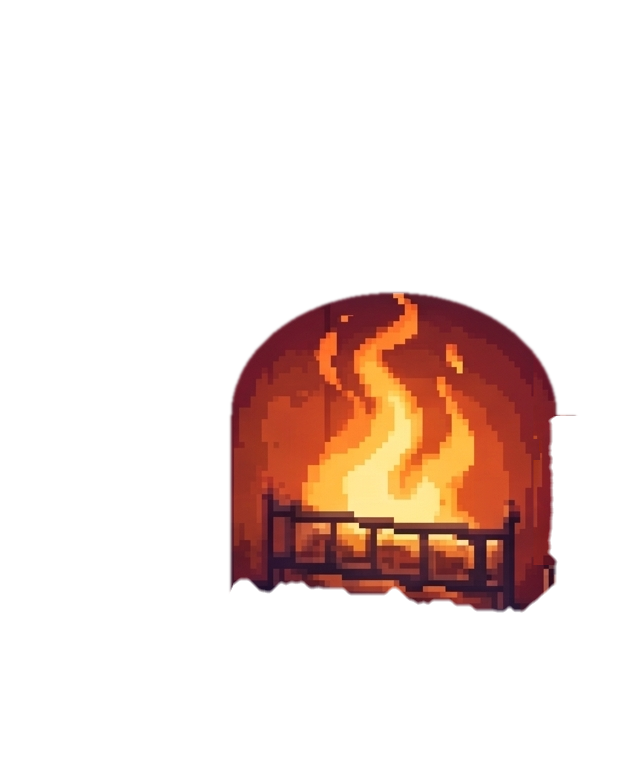
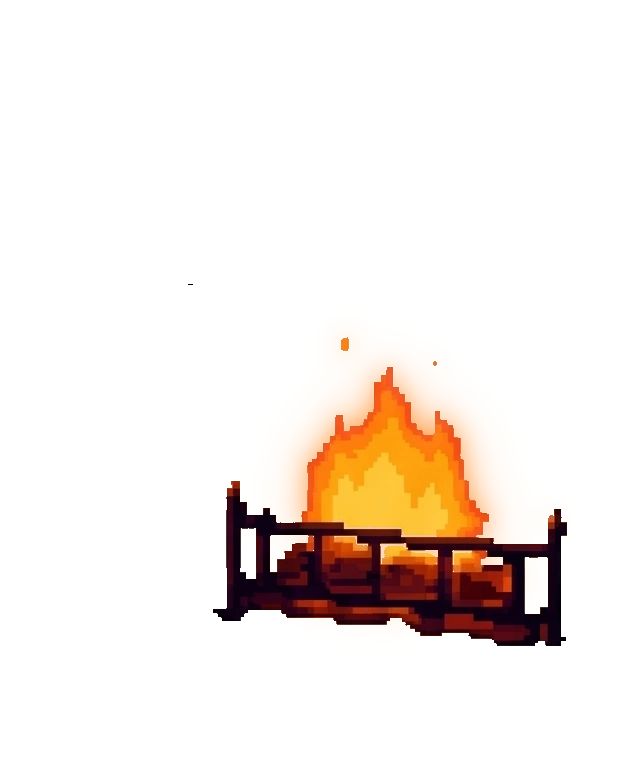
feat(calcifer): integrate clean fireplace background and transparent 24 flame frames with aura

Changed region(s): [[0.3366, 0.374, 0.9179, 0.8416]]

diff --git a/js/calcifer.js b/js/calcifer.js
@@ -13,14 +13,14 @@
 const Calcifer = (() => {
   // 8 frames ngọn lửa bập bùng tự nhiên từ Flame_1_8.png
   const IDLE_FRAMES = [
-    'assets/img/calcifer/flame_idle_1.webp?v=20261020a',
-    'assets/img/calcifer/flame_idle_2.webp?v=20261020a',
-    'assets/img/calcifer/flame_idle_3.webp?v=20261020a',
-    'assets/img/calcifer/flame_idle_4.webp?v=20261020a',
-    'assets/img/calcifer/flame_idle_5.webp?v=20261020a',
-    'assets/img/calcifer/flame_idle_6.webp?v=20261020a',
-    'assets/img/calcifer/flame_idle_7.webp?v=20261020a',
-    'assets/img/calcifer/flame_idle_8.webp?v=20261020a'
+    'assets/img/calcifer/flame_idle_1.webp?v=20261020_v3',
+    'assets/img/calcifer/flame_idle_2.webp?v=20261020_v3',
+    'assets/img/calcifer/flame_idle_3.webp?v=20261020_v3',
+    'assets/img/calcifer/flame_idle_4.webp?v=20261020_v3',
+    'assets/img/calcifer/flame_idle_5.webp?v=20261020_v3',
+    'assets/img/calcifer/flame_idle_6.webp?v=20261020_v3',
+    'assets/img/calcifer/flame_idle_7.webp?v=20261020_v3',
+    'assets/img/calcifer/flame_idle_8.webp?v=20261020_v3'
   ];
 
   // 9 phân đoạn hội thoại với biểu cảm và cử chỉ tương ứng
@@ -28,92 +28,92 @@ const Calcifer = (() => {
     {
       title: 'Xin chào bạn!',
       text: 'Chào bạn,\nMình là **Carte** — người giữ lửa và canh gác cho tòa lâu đài cùng với chú chó siêu to tên **Bond**.\n\nNhờ có mình mà lâu đài mới chuyển động và đi bất kì nơi nào mà cô chủ muốn.',
-      mainFrame: 'assets/img/calcifer/calcifer_talk_3.webp?v=20261020a', // giơ tay chào mừng
+      mainFrame: 'assets/img/calcifer/calcifer_talk_3.webp?v=20261020_v3', // giơ tay chào mừng
       talkFrames: [
-        'assets/img/calcifer/calcifer_talk_3.webp?v=20261020a',
-        'assets/img/calcifer/calcifer_talk_6.webp?v=20261020a'
+        'assets/img/calcifer/calcifer_talk_3.webp?v=20261020_v3',
+        'assets/img/calcifer/calcifer_talk_6.webp?v=20261020_v3'
       ],
-      breatheFrame: 'assets/img/calcifer/calcifer_talk_2.webp?v=20261020a'
+      breatheFrame: 'assets/img/calcifer/calcifer_talk_2.webp?v=20261020_v3'
     },
     {
       title: 'Cô chủ của Carte',
       text: 'Cô chủ của mình là một người thích khám phá, tò mò và cũng mơ mộng nữa.',
-      mainFrame: 'assets/img/calcifer/calcifer_smile_1.webp?v=20261020_opt2', // cười dịu dàng
+      mainFrame: 'assets/img/calcifer/calcifer_smile_1.webp?v=20261020_v3', // cười dịu dàng
       talkFrames: [
-        'assets/img/calcifer/calcifer_smile_1.webp?v=20261020_opt2',
-        'assets/img/calcifer/calcifer_talk_4.webp?v=20261020a'
+        'assets/img/calcifer/calcifer_smile_1.webp?v=20261020_v3',
+        'assets/img/calcifer/calcifer_talk_4.webp?v=20261020_v3'
       ],
-      breatheFrame: 'assets/img/calcifer/calcifer_smile_5.webp?v=20261020a'
+      breatheFrame: 'assets/img/calcifer/calcifer_smile_5.webp?v=20261020_v3'
     },
     {
       title: 'Những cái tên gắn liền từng chặng đường',
       text: 'Mình có được nghe cô chủ kể trước kia cô có khá nhiều tên, mỗi cái tên gắn liền với một giai đoạn...\n\nHiện tại cô chủ mình chọn **Vivi** làm tên tiếng Việt cũng như bút danh cho việc viết, còn **Vivian** là tên tiếng Anh.',
-      mainFrame: 'assets/img/calcifer/calcifer_talk_6.webp?v=20261020a', // mở miệng kể chuyện
+      mainFrame: 'assets/img/calcifer/calcifer_talk_6.webp?v=20261020_v3', // mở miệng kể chuyện
       talkFrames: [
-        'assets/img/calcifer/calcifer_talk_6.webp?v=20261020a',
-        'assets/img/calcifer/calcifer_talk_7.webp?v=20261020a'
+        'assets/img/calcifer/calcifer_talk_6.webp?v=20261020_v3',
+        'assets/img/calcifer/calcifer_talk_7.webp?v=20261020_v3'
       ],
-      breatheFrame: 'assets/img/calcifer/calcifer_talk_5.webp?v=20261020a'
+      breatheFrame: 'assets/img/calcifer/calcifer_talk_5.webp?v=20261020_v3'
     },
     {
       title: 'Đưa cô gần hơn tới các vì sao',
       text: 'Mình hay gọi cô là **Vivi** luôn cho gọn.\n\nVivi rất thích các chòm sao nên mình đã luôn phải cháy rực rỡ để đưa cô gần hơn tới các vì sao ✨ — một góc nhỏ ấm áp nơi cô có thể quan sát, nhìn ngắm, chiêm nghiệm về những điều cô đọc được, cô đi qua hay những sáng tác của cô.',
-      mainFrame: 'assets/img/calcifer/calcifer_smile_6.webp?v=20261020a', // giơ tay nhiệt huyết
+      mainFrame: 'assets/img/calcifer/calcifer_smile_6.webp?v=20261020_v3', // giơ tay nhiệt huyết
       talkFrames: [
-        'assets/img/calcifer/calcifer_smile_6.webp?v=20261020a',
-        'assets/img/calcifer/calcifer_talk_3.webp?v=20261020a'
+        'assets/img/calcifer/calcifer_smile_6.webp?v=20261020_v3',
+        'assets/img/calcifer/calcifer_talk_3.webp?v=20261020_v3'
       ],
-      breatheFrame: 'assets/img/calcifer/calcifer_smile_7.webp?v=20261020a'
+      breatheFrame: 'assets/img/calcifer/calcifer_smile_7.webp?v=20261020_v3'
     },
     {
       title: 'Những khoảng ở giữa...',
       text: 'Vivi vừa hiền lành cũng vừa ghê gớm, vừa sâu sắc vừa vô tri, vừa chăm chỉ cũng vừa lười biếng, vừa thích đi nhưng cũng lười đi... 😊\n\nCô là sự kết hợp của nhiều khoảng ở giữa…',
-      mainFrame: 'assets/img/calcifer/calcifer_smile_2.webp?v=20261020a', // cười tít mắt `> <`
+      mainFrame: 'assets/img/calcifer/calcifer_smile_2.webp?v=20261020_v3', // cười tít mắt `> <`
       talkFrames: [
-        'assets/img/calcifer/calcifer_smile_2.webp?v=20261020a',
-        'assets/img/calcifer/calcifer_smile_5.webp?v=20261020a'
+        'assets/img/calcifer/calcifer_smile_2.webp?v=20261020_v3',
+        'assets/img/calcifer/calcifer_smile_5.webp?v=20261020_v3'
       ],
-      breatheFrame: 'assets/img/calcifer/calcifer_smile_4.webp?v=20261020a'
+      breatheFrame: 'assets/img/calcifer/calcifer_smile_4.webp?v=20261020_v3'
     },
     {
       title: 'Tình yêu dành cho nghệ thuật',
       text: 'Nhưng có lẽ điều mà cô luôn thích đó là **nghệ thuật**.\n\nCô thích khám phá về thế giới, thích ghi lại những chiêm nghiệm về cuộc đời.',
-      mainFrame: 'assets/img/calcifer/calcifer_smile_5.webp?v=20261020a', // nụ cười điềm đạm
+      mainFrame: 'assets/img/calcifer/calcifer_smile_5.webp?v=20261020_v3', // nụ cười điềm đạm
       talkFrames: [
-        'assets/img/calcifer/calcifer_smile_5.webp?v=20261020a',
-        'assets/img/calcifer/calcifer_talk_4.webp?v=20261020a'
+        'assets/img/calcifer/calcifer_smile_5.webp?v=20261020_v3',
+        'assets/img/calcifer/calcifer_talk_4.webp?v=20261020_v3'
       ],
-      breatheFrame: 'assets/img/calcifer/calcifer_smile_1.webp?v=20261020_opt2'
+      breatheFrame: 'assets/img/calcifer/calcifer_smile_1.webp?v=20261020_v3'
     },
     {
       title: 'Phương châm viết của Vivi',
       text: 'Vivi hay nói với mình là cô:\n\n🔥 **« VIẾT ĐỂ KHÔNG QUÊN »** 🔥',
-      mainFrame: 'assets/img/calcifer/calcifer_talk_8.webp?v=20261020a', // cười lớn vui vẻ
+      mainFrame: 'assets/img/calcifer/calcifer_talk_8.webp?v=20261020_v3', // cười lớn vui vẻ
       talkFrames: [
-        'assets/img/calcifer/calcifer_talk_8.webp?v=20261020a',
-        'assets/img/calcifer/calcifer_smile_8.webp?v=20261020a'
+        'assets/img/calcifer/calcifer_talk_8.webp?v=20261020_v3',
+        'assets/img/calcifer/calcifer_smile_8.webp?v=20261020_v3'
       ],
-      breatheFrame: 'assets/img/calcifer/calcifer_talk_3.webp?v=20261020a'
+      breatheFrame: 'assets/img/calcifer/calcifer_talk_3.webp?v=20261020_v3'
     },
     {
       title: 'Những dấu chân con chữ',
       text: 'Vậy nên…\n\nNhiều khi các bài viết hay các sáng tác có thể như là một dấu chân cô đã đi và muốn lưu dấu thông qua vài con chữ lộn xộn.',
-      mainFrame: 'assets/img/calcifer/calcifer_smile_7.webp?v=20261020a', // nụ cười rạng rỡ
+      mainFrame: 'assets/img/calcifer/calcifer_smile_7.webp?v=20261020_v3', // nụ cười rạng rỡ
       talkFrames: [
-        'assets/img/calcifer/calcifer_smile_7.webp?v=20261020a',
-        'assets/img/calcifer/calcifer_talk_5.webp?v=20261020a'
+        'assets/img/calcifer/calcifer_smile_7.webp?v=20261020_v3',
+        'assets/img/calcifer/calcifer_talk_5.webp?v=20261020_v3'
       ],
-      breatheFrame: 'assets/img/calcifer/calcifer_smile_1.webp?v=20261020_opt2'
+      breatheFrame: 'assets/img/calcifer/calcifer_smile_1.webp?v=20261020_v3'
     },
     {
       title: 'Chinh phục những chân trời mới',
       text: 'Chẳng xô bồ hay cũng chẳng cần trau chuốt để ngóng chờ một chàng hoàng tử của đời.\n\nCác con chữ chỉ đơn giản vẫn ở đó và lớn dần từng ngày để tự chinh phục những điều thú vị tiếp theo. ✨',
-      mainFrame: 'assets/img/calcifer/calcifer_smile_3.webp?v=20261020a', // giơ 2 tay hạnh phúc
+      mainFrame: 'assets/img/calcifer/calcifer_smile_3.webp?v=20261020_v3', // giơ 2 tay hạnh phúc
       talkFrames: [
-        'assets/img/calcifer/calcifer_smile_3.webp?v=20261020a',
-        'assets/img/calcifer/calcifer_talk_3.webp?v=20261020a'
+        'assets/img/calcifer/calcifer_smile_3.webp?v=20261020_v3',
+        'assets/img/calcifer/calcifer_talk_3.webp?v=20261020_v3'
       ],
-      breatheFrame: 'assets/img/calcifer/calcifer_smile_6.webp?v=20261020a'
+      breatheFrame: 'assets/img/calcifer/calcifer_smile_6.webp?v=20261020_v3'
     }
   ];
 
@@ -523,22 +523,22 @@ const Calcifer = (() => {
   function preloadImages() {
     const all = [
       ...IDLE_FRAMES,
-      'assets/img/calcifer/calcifer_talk_1.webp?v=20261020a',
-      'assets/img/calcifer/calcifer_talk_2.webp?v=20261020a',
-      'assets/img/calcifer/calcifer_talk_3.webp?v=20261020a',
-      'assets/img/calcifer/calcifer_talk_4.webp?v=20261020a',
-      'assets/img/calcifer/calcifer_talk_5.webp?v=20261020a',
-      'assets/img/calcifer/calcifer_talk_6.webp?v=20261020a',
-      'assets/img/calcifer/calcifer_talk_7.webp?v=20261020a',
-      'assets/img/calcifer/calcifer_talk_8.webp?v=20261020a',
-      'assets/img/calcifer/calcifer_smile_1.webp?v=20261020_opt2',
-      'assets/img/calcifer/calcifer_smile_2.webp?v=20261020a',
-      'assets/img/calcifer/calcifer_smile_3.webp?v=20261020a',
-      'assets/img/calcifer/calcifer_smile_4.webp?v=20261020a',
-      'assets/img/calcifer/calcifer_smile_5.webp?v=20261020a',
-      'assets/img/calcifer/calcifer_smile_6.webp?v=20261020a',
-      'assets/img/calcifer/calcifer_smile_7.webp?v=20261020a',
-      'assets/img/calcifer/calcifer_smile_8.webp?v=20261020a'
+      'assets/img/calcifer/calcifer_talk_1.webp?v=20261020_v3',
+      'assets/img/calcifer/calcifer_talk_2.webp?v=20261020_v3',
+      'assets/img/calcifer/calcifer_talk_3.webp?v=20261020_v3',
+      'assets/img/calcifer/calcifer_talk_4.webp?v=20261020_v3',
+      'assets/img/calcifer/calcifer_talk_5.webp?v=20261020_v3',
+      'assets/img/calcifer/calcifer_talk_6.webp?v=20261020_v3',
+      'assets/img/calcifer/calcifer_talk_7.webp?v=20261020_v3',
+      'assets/img/calcifer/calcifer_talk_8.webp?v=20261020_v3',
+      'assets/img/calcifer/calcifer_smile_1.webp?v=20261020_v3',
+      'assets/img/calcifer/calcifer_smile_2.webp?v=20261020_v3',
+      'assets/img/calcifer/calcifer_smile_3.webp?v=20261020_v3',
+      'assets/img/calcifer/calcifer_smile_4.webp?v=20261020_v3',
+      'assets/img/calcifer/calcifer_smile_5.webp?v=20261020_v3',
+      'assets/img/calcifer/calcifer_smile_6.webp?v=20261020_v3',
+      'assets/img/calcifer/calcifer_smile_7.webp?v=20261020_v3',
+      'assets/img/calcifer/calcifer_smile_8.webp?v=20261020_v3'
     ];
     all.forEach(src => {
       const img = new Image();
@@ -761,20 +761,20 @@ const Calcifer = (() => {
     // Chuỗi thức tỉnh sống động:
     // 1. Nhắm mắt ngủ
     if (flameEl) {
-      flameEl.src = 'assets/img/calcifer/calcifer_talk_1.webp?v=20261020a';
+      flameEl.src = 'assets/img/calcifer/calcifer_talk_1.webp?v=20261020_v3';
     }
 
     // 2. Mở to mắt giật mình 'O'
     setTimeout(() => {
       if (!isAwake) return;
-      if (flameEl) flameEl.src = 'assets/img/calcifer/calcifer_talk_2.webp?v=20261020a';
+      if (flameEl) flameEl.src = 'assets/img/calcifer/calcifer_talk_2.webp?v=20261020_v3';
       CalciferEmbers.burst(8);
     }, 200);
 
     // 3. Giơ 2 tay lên reo chào mừng
     setTimeout(() => {
       if (!isAwake) return;
-      if (flameEl) flameEl.src = 'assets/img/calcifer/calcifer_talk_3.webp?v=20261020a';
+      if (flameEl) flameEl.src = 'assets/img/calcifer/calcifer_talk_3.webp?v=20261020_v3';
       CalciferEmbers.burst(14);
     }, 450);
 
@@ -831,11 +831,11 @@ const Calcifer = (() => {
 
     // Mỉm cười chào rồi nhắm mắt quay lại ngọn lửa bình thường
     if (flameEl) {
-      flameEl.src = 'assets/img/calcifer/calcifer_talk_4.webp?v=20261020a';
+      flameEl.src = 'assets/img/calcifer/calcifer_talk_4.webp?v=20261020_v3';
     }
 
     setTimeout(() => {
-      if (flameEl) flameEl.src = 'assets/img/calcifer/calcifer_talk_1.webp?v=20261020a';
+      if (flameEl) flameEl.src = 'assets/img/calcifer/calcifer_talk_1.webp?v=20261020_v3';
     }, 400);
 
     setTimeout(() => {

diff --git a/index.html b/index.html
@@ -98,8 +98,8 @@
   <!-- ============ INTRO (căn phòng) ============ -->
   <section id="intro" class="scene" aria-label="Căn phòng bên khung cửa sổ">
     <div class="stage" id="introStage">
-      <img class="bg bg-close" src="assets/img/bg_close.webp?v=20261020a" alt="Căn phòng với khung cửa sổ vòm nhìn ra bầu trời đêm">
-      <img class="bg bg-open"  src="assets/img/bg_open.webp?v=20261020a" alt="">
+      <img class="bg bg-close" src="assets/img/bg_close.webp?v=20261020_v3" alt="Căn phòng với khung cửa sổ vòm nhìn ra bầu trời đêm">
+      <img class="bg bg-open"  src="assets/img/bg_open.webp?v=20261020_v3" alt="">
       <div class="window-sky" id="windowSky"></div>
       <div class="fire-glow"></div>
       <div class="candle-glow"></div>
@@ -109,7 +109,7 @@
       <!-- Carte (Calcifer) trong lò sưởi -->
       <div class="calcifer-container" id="calciferContainer" role="button" tabindex="0" title="Chạm vào Carte để trò chuyện" aria-label="Carte - Người giữ lửa của lâu đài">
         <canvas class="calcifer-embers" id="calciferEmbers"></canvas>
-        <img class="calcifer-flame" id="calciferFlame" src="assets/img/calcifer/flame_idle_1.webp?v=20261020a" alt="Carte người giữ lửa">
+        <img class="calcifer-flame" id="calciferFlame" src="assets/img/calcifer/flame_idle_1.webp?v=20261020_v3" alt="Carte người giữ lửa">
         <div class="calcifer-hint-pill" id="calciferHint">
           <span class="pill-fire">🔥</span>
           <span class="pill-text">Carte</span>
@@ -382,7 +382,7 @@
 <script src="js/shooting.js?v=20261018m"></script>
 <script src="js/galaxy.js?v=20261018m"></script>
 <script src="js/intro.js?v=20261018n"></script>
-<script src="js/calcifer.js?v=20261020_opt2"></script>
+<script src="js/calcifer.js?v=20261020_v3"></script>
 <script src="js/main.js?v=20261018n"></script>
 <script src="js/dog.js?v=20261018m"></script>
 </body>

diff --git a/css/style.css b/css/style.css
@@ -1223,8 +1223,6 @@ body.blog-open{
   image-rendering: pixelated;
   image-rendering: crisp-edges;
   pointer-events: none;
-  /* Keep the glow inside the cavity (frame is 621x770; cavity ~X231..560, Y290..612) */
-  clip-path: inset(36.5% 9.8% 20.5% 36.2%);
   filter: drop-shadow(0 0 10px rgba(255, 140, 40, 0.35));
   transition: filter 0.3s ease;
 }
